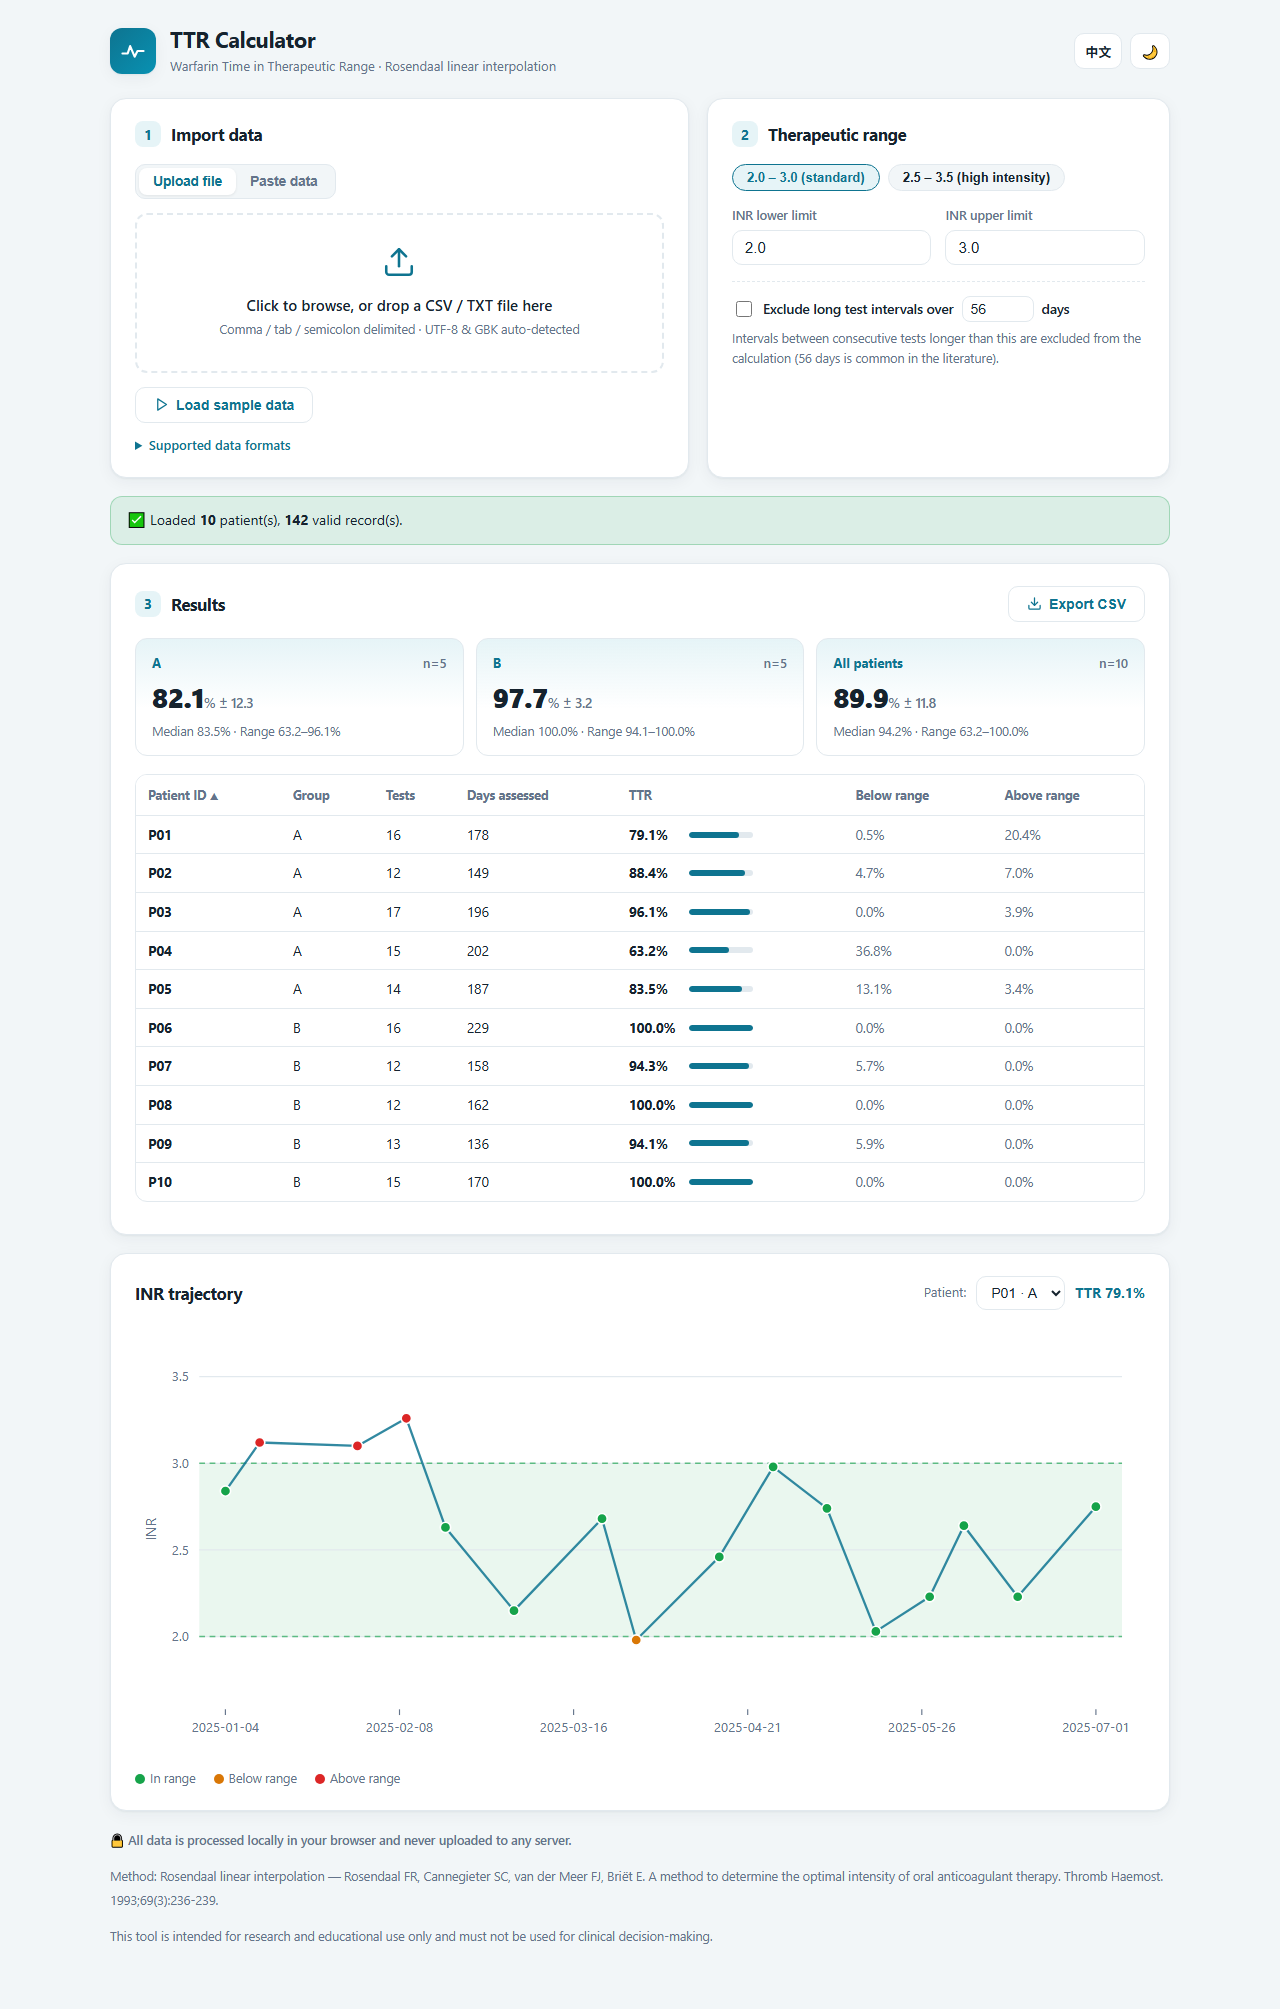
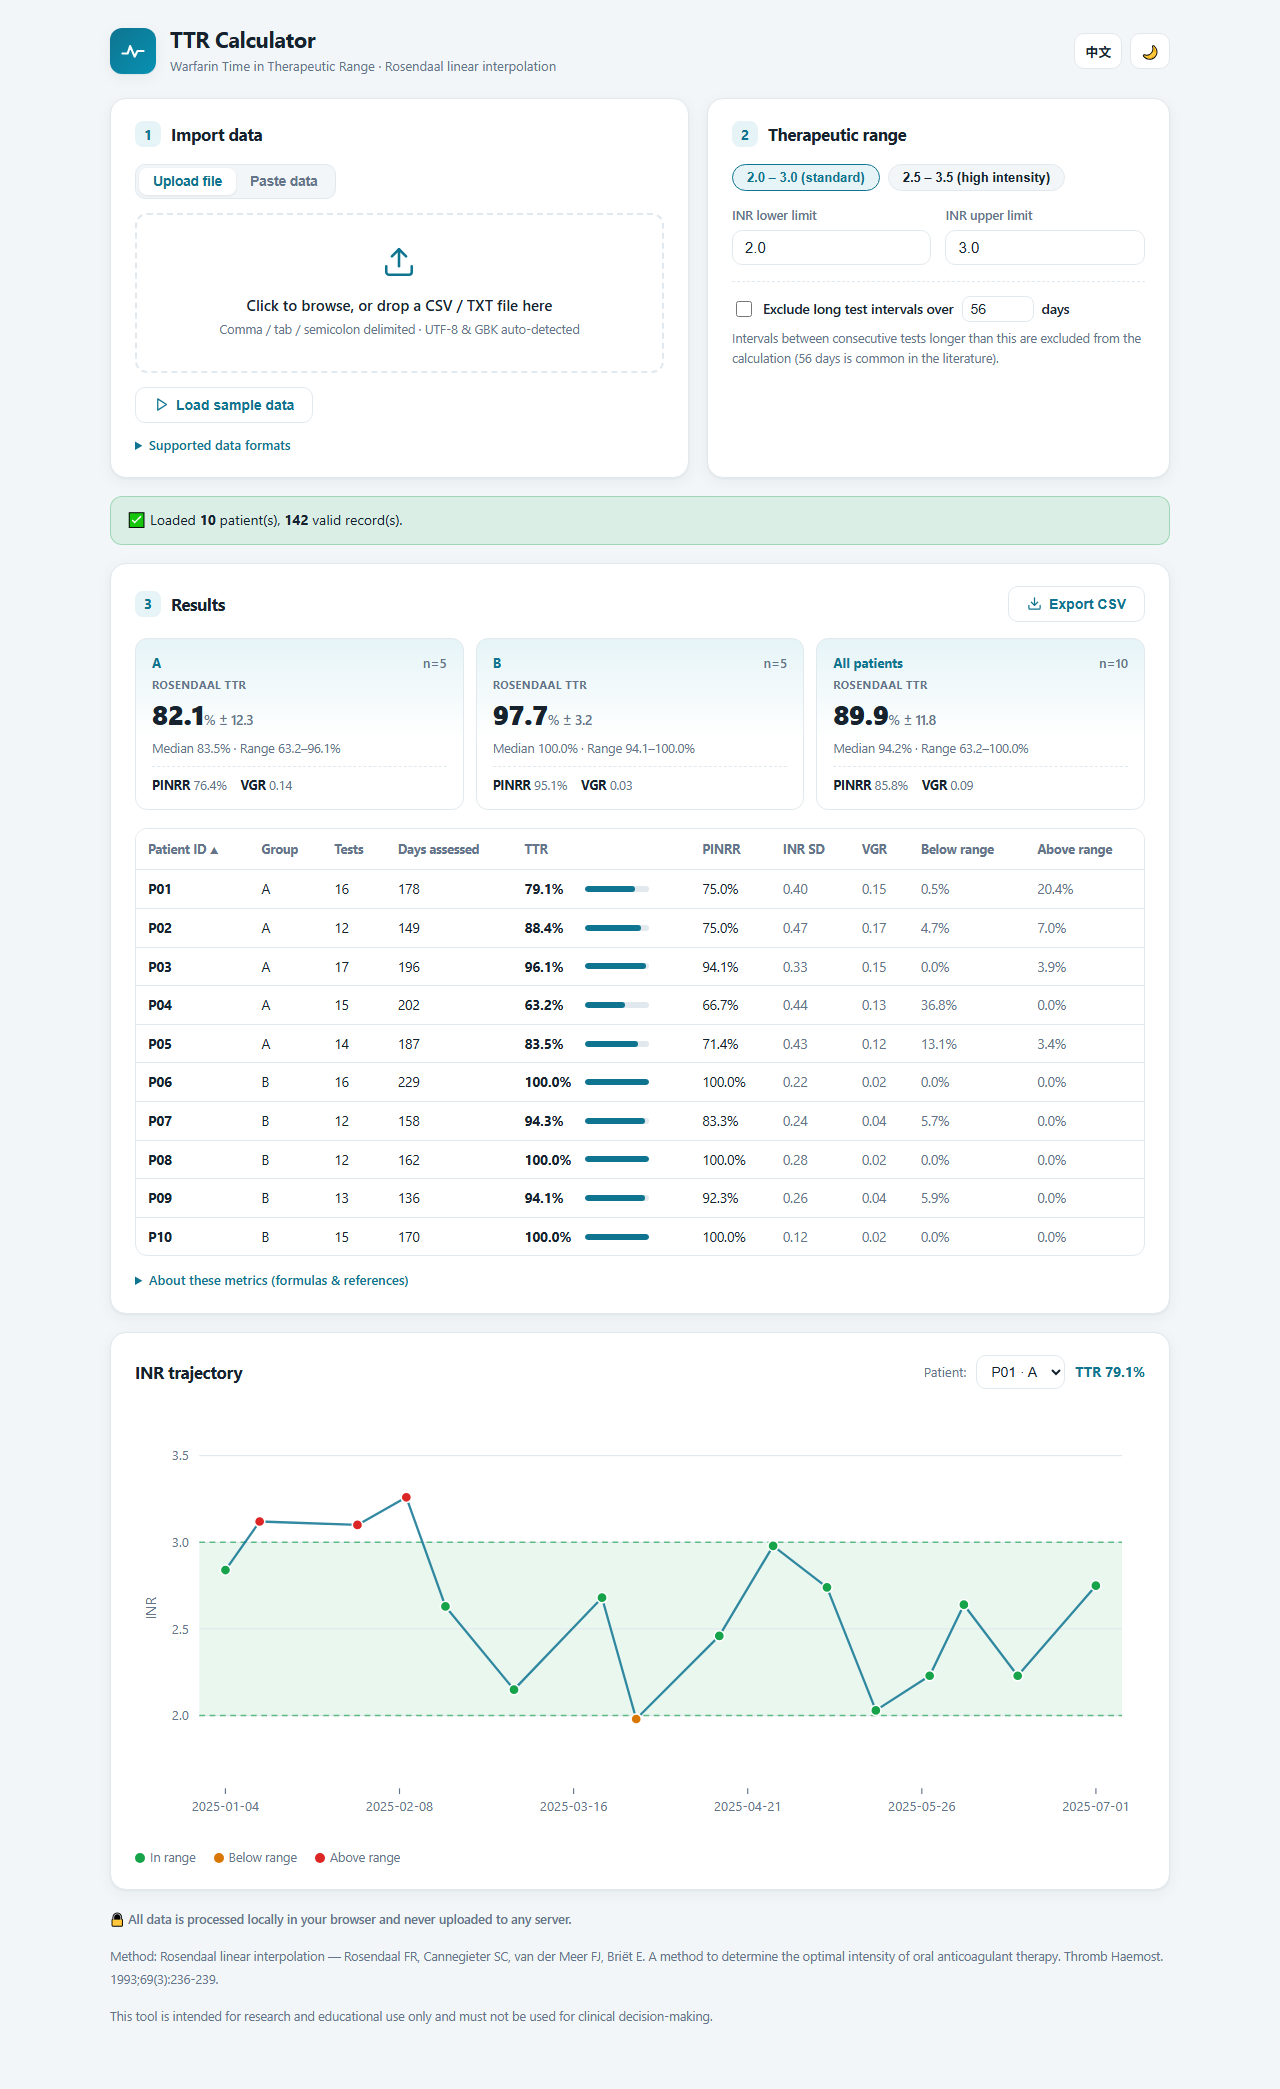
Add multi-algorithm comparison: PINRR, INR SD, Fihn VGR
Alongside Rosendaal TTR the tool now reports, per patient and per
group, the count-based PINRR (proportion of tests in range), INR
standard deviation, and the Fihn variance growth rate — so the same
dataset can be viewed across time-based, count-based, and variability
metrics side by side. Added to the results table, group stat cards,
CSV export, and an in-app metrics/formulas help section (zh/en).
README gains a metrics table and references; preview regenerated.

All new metrics verified against independent recomputation.

diff --git a/index.html b/index.html
@@ -199,9 +199,12 @@
   }
   .stat-card .g-name { font-size: 13px; font-weight: 700; color: var(--primary); display: flex; justify-content: space-between; }
   .stat-card .g-n { color: var(--muted); font-weight: 600; }
-  .stat-card .g-mean { font-size: 27px; font-weight: 800; letter-spacing: -0.02em; margin: 2px 0; }
+  .stat-card .g-method { font-size: 11px; font-weight: 700; color: var(--muted); text-transform: uppercase; letter-spacing: 0.04em; margin-top: 2px; }
+  .stat-card .g-mean { font-size: 27px; font-weight: 800; letter-spacing: -0.02em; margin: 0 0 2px; }
   .stat-card .g-mean small { font-size: 14px; font-weight: 600; color: var(--muted); }
   .stat-card .g-sub { font-size: 12.5px; color: var(--muted); }
+  .stat-card .g-cmp { display: flex; gap: 14px; margin-top: 8px; padding-top: 8px; border-top: 1px dashed var(--border); font-size: 12.5px; color: var(--muted); }
+  .stat-card .g-cmp b { color: var(--text); font-weight: 700; }
 
   /* ---------- table ---------- */
   .table-wrap { overflow: auto; max-height: 430px; border: 1px solid var(--border); border-radius: 12px; }
@@ -224,6 +227,9 @@
   .ttrcell .bar i { display: block; height: 100%; background: var(--primary); border-radius: 3px; }
   .muted { color: var(--muted); }
   .note-line { font-size: 12.5px; color: var(--muted); margin: 10px 2px 0; }
+  .metrics-help { margin-top: 14px; }
+  .metrics-help ul { margin: 6px 0; padding-left: 20px; }
+  .metrics-help li { margin: 3px 0; }
 
   /* ---------- chart ---------- */
   .chart-controls { display: flex; align-items: center; gap: 10px; flex-wrap: wrap; }
@@ -359,6 +365,10 @@
       </table>
     </div>
     <p class="note-line" id="tableNote"></p>
+    <details class="format-help metrics-help">
+      <summary data-i18n="metricsTitle"></summary>
+      <div id="metricsBody"></div>
+    </details>
   </section>
 
   <section class="card hidden" id="chartCard">
@@ -428,7 +438,17 @@ P02,B,2025-01-08 08:15,3.10</pre>`,
     settingsErr: '请输入有效治疗窗：下限 > 0 且小于上限。',
     exportBtn: '导出 CSV',
     thId: '患者 ID', thGroup: '分组', thN: '检测次数', thDays: '评估天数',
-    thTTR: 'TTR', thBelow: '低于窗', thAbove: '高于窗',
+    thTTR: 'TTR', thPINRR: '达标比例', thSD: 'INR 标准差', thVGR: 'VGR', thBelow: '低于窗', thAbove: '高于窗',
+    rosLabel: 'Rosendaal TTR',
+    metricsTitle: '关于各项指标（含公式与文献）',
+    metricsBody: `
+      <ul>
+        <li><b>TTR（Rosendaal 法）</b>：相邻两次 INR 间线性插值，计算落在治疗窗内的<i>时间</i>百分比。Rosendaal 等，1993。</li>
+        <li><b>达标比例 PINRR</b>：落在治疗窗内的 INR <i>次数</i> ÷ 总检测次数 ×100%（传统"点计数"法，不考虑时间）。</li>
+        <li><b>INR 标准差</b>：该患者所有 INR 值的样本标准差，反映离散程度。</li>
+        <li><b>VGR（Fihn 方差增长率）</b>：各相邻区间 (ΔINR)² ÷ 该区间周数，再对区间取平均；<b>数值越大越不稳定</b>。Fihn 等。</li>
+      </ul>
+      <p>同一批数据下 TTR 与 PINRR 常有系统性差异；变异性指标（SD、VGR）可独立于 TTR 预测出血与血栓风险，故并列展示。</p>`,
     invalidPatient: '有效检测不足，无法计算',
     ungrouped: '未分组',
     overall: '全部患者',
@@ -491,7 +511,17 @@ P02,B,2025-01-08 08:15,3.10</pre>`,
     settingsErr: 'Enter a valid range: lower limit > 0 and below the upper limit.',
     exportBtn: 'Export CSV',
     thId: 'Patient ID', thGroup: 'Group', thN: 'Tests', thDays: 'Days assessed',
-    thTTR: 'TTR', thBelow: 'Below range', thAbove: 'Above range',
+    thTTR: 'TTR', thPINRR: 'PINRR', thSD: 'INR SD', thVGR: 'VGR', thBelow: 'Below range', thAbove: 'Above range',
+    rosLabel: 'Rosendaal TTR',
+    metricsTitle: 'About these metrics (formulas & references)',
+    metricsBody: `
+      <ul>
+        <li><b>TTR (Rosendaal)</b>: linear interpolation between consecutive INRs; percentage of <i>time</i> spent in range. Rosendaal et al., 1993.</li>
+        <li><b>PINRR</b>: proportion of INR <i>tests</i> in range ÷ total tests ×100% (traditional count-based method; ignores timing).</li>
+        <li><b>INR SD</b>: sample standard deviation of the patient's INR values — a measure of spread.</li>
+        <li><b>VGR (Fihn variance growth rate)</b>: mean over intervals of (ΔINR)² ÷ weeks in that interval; <b>higher = less stable</b>. Fihn et al.</li>
+      </ul>
+      <p>For the same data, TTR and PINRR often differ systematically; variability metrics (SD, VGR) predict bleeding and thrombosis risk independently of TTR, so they are shown side by side.</p>`,
     invalidPatient: 'Not enough valid tests',
     ungrouped: 'Ungrouped',
     overall: 'All patients',
@@ -631,23 +661,41 @@ function segmentSplit(v0, v1, lo, hi) {
   const below = fracBetween(v0, v1, -Infinity, lo);
   return { below, inR, above: Math.max(0, 1 - inR - below) };
 }
+const WEEK_MS = 7 * 86400000;
 function computePatient(points, lo, hi, maxGapMs) {
+  const n = points.length;
+  // ---- count-based metrics (independent of timing) ----
+  // PINRR = proportion of INR tests within range; SD = spread of INR values
+  let inCount = 0, sum = 0, sumSq = 0;
+  for (const p of points) {
+    if (p.v >= lo && p.v <= hi) inCount++;
+    sum += p.v; sumSq += p.v * p.v;
+  }
+  const pinrr = n ? inCount / n * 100 : null;
+  const sdINR = n > 1 ? Math.sqrt(Math.max(0, (sumSq - sum * sum / n) / (n - 1))) : null;
+
+  // ---- interval-based metrics ----
+  // Rosendaal TTR (linear interpolation) + Fihn variance growth rate
   let inMs = 0, belowMs = 0, aboveMs = 0, totalMs = 0, excluded = 0;
-  for (let i = 0; i < points.length - 1; i++) {
+  let vgrSum = 0, vgrK = 0;
+  for (let i = 0; i < n - 1; i++) {
     const dt = points[i + 1].t - points[i].t;
     if (dt <= 0) continue;
     if (maxGapMs && dt > maxGapMs) { excluded++; continue; }
     const s = segmentSplit(points[i].v, points[i + 1].v, lo, hi);
     inMs += s.inR * dt; belowMs += s.below * dt; aboveMs += s.above * dt; totalMs += dt;
+    const dv = points[i + 1].v - points[i].v;
+    vgrSum += dv * dv / (dt / WEEK_MS); vgrK++;
   }
-  if (totalMs === 0) return { valid: false, excluded };
+  const vgr = vgrK ? vgrSum / vgrK : null;
+  if (totalMs === 0) return { valid: false, excluded, pinrr, sdINR, vgr };
   return {
     valid: true,
     ttr: inMs / totalMs * 100,
     below: belowMs / totalMs * 100,
     above: aboveMs / totalMs * 100,
     days: totalMs / 86400000,
-    excluded
+    pinrr, sdINR, vgr, excluded
   };
 }
 function computeAll() {
@@ -671,30 +719,35 @@ function computeAll() {
   perPatient.filter(r => r.valid).forEach(r => {
     const g = r.group || '';
     if (!byGroup.has(g)) byGroup.set(g, []);
-    byGroup.get(g).push(r.ttr);
+    byGroup.get(g).push(r);
   });
   groupStats = [...byGroup.entries()]
     .sort((a, b) => a[0].localeCompare(b[0], undefined, { numeric: true }))
-    .map(([g, ttrs]) => makeStats(g, ttrs));
+    .map(([g, rows]) => makeStats(g, rows));
   if (groupStats.length > 1) {
     makeOverall();
   }
   renderResults();
 }
-function makeStats(g, ttrs) {
+const avg = arr => arr.reduce((s, x) => s + x, 0) / arr.length;
+function makeStats(g, rows) {
+  const ttrs = rows.map(r => r.ttr);
   const n = ttrs.length;
-  const mean = ttrs.reduce((s, x) => s + x, 0) / n;
+  const mean = avg(ttrs);
   const sd = n > 1 ? Math.sqrt(ttrs.reduce((s, x) => s + (x - mean) ** 2, 0) / (n - 1)) : null;
   const sorted = [...ttrs].sort((a, b) => a - b);
   const median = n % 2 ? sorted[(n - 1) / 2] : (sorted[n / 2 - 1] + sorted[n / 2]) / 2;
-  return { group: g, n, mean, sd, median, min: sorted[0], max: sorted[n - 1] };
+  const pinrrs = rows.map(r => r.pinrr).filter(x => x != null);
+  const vgrs = rows.map(r => r.vgr).filter(x => x != null);
+  return {
+    group: g, n, mean, sd, median, min: sorted[0], max: sorted[n - 1],
+    pinrrMean: pinrrs.length ? avg(pinrrs) : null,
+    vgrMean: vgrs.length ? avg(vgrs) : null
+  };
 }
 function makeOverall() {
-  const all = perPatient.filter(r => r.valid).map(r => r.ttr);
-  if (all.length) {
-    const s = makeStats('__all__', all);
-    groupStats.push(s);
-  }
+  const rows = perPatient.filter(r => r.valid);
+  if (rows.length) groupStats.push(makeStats('__all__', rows));
 }
 
 /* ================= rendering ================= */
@@ -748,8 +801,13 @@ function renderStatCards() {
   $('statGrid').innerHTML = groupStats.map(s => `
     <div class="stat-card">
       <div class="g-name"><span>${escapeHtml(groupLabel(s.group))}</span><span class="g-n">n=${s.n}${t('nUnit')}</span></div>
+      <div class="g-method">${t('rosLabel')}</div>
       <div class="g-mean">${s.mean.toFixed(1)}<small>%</small>${s.sd !== null ? `<small> ± ${s.sd.toFixed(1)}</small>` : ''}</div>
       <div class="g-sub">${t('medianLabel')} ${s.median.toFixed(1)}% · ${t('rangeLabel')} ${s.min.toFixed(1)}–${s.max.toFixed(1)}%</div>
+      <div class="g-cmp">
+        <span><b>PINRR</b> ${s.pinrrMean != null ? s.pinrrMean.toFixed(1) + '%' : '–'}</span>
+        <span><b>VGR</b> ${s.vgrMean != null ? s.vgrMean.toFixed(2) : '–'}</span>
+      </div>
     </div>`).join('');
 }
 const COLS = [
@@ -758,6 +816,9 @@ const COLS = [
   { key: 'n', label: 'thN' },
   { key: 'days', label: 'thDays' },
   { key: 'ttr', label: 'thTTR' },
+  { key: 'pinrr', label: 'thPINRR' },
+  { key: 'sdINR', label: 'thSD' },
+  { key: 'vgr', label: 'thVGR' },
   { key: 'below', label: 'thBelow' },
   { key: 'above', label: 'thAbove' },
 ];
@@ -777,7 +838,7 @@ function renderTable() {
   $('tableBody').innerHTML = rows.map(r => {
     const sel = r.id === selectedId ? ' class="selected"' : '';
     if (!r.valid) {
-      return `<tr data-id="${escapeHtml(r.id)}"${sel}><td>${escapeHtml(r.id)}</td><td>${escapeHtml(groupLabel(r.group))}</td><td>${r.n}</td><td colspan="4" class="muted">${t('invalidPatient')}</td></tr>`;
+      return `<tr data-id="${escapeHtml(r.id)}"${sel}><td>${escapeHtml(r.id)}</td><td>${escapeHtml(groupLabel(r.group))}</td><td>${r.n}</td><td colspan="7" class="muted">${t('invalidPatient')}</td></tr>`;
     }
     return `<tr data-id="${escapeHtml(r.id)}"${sel}>
       <td><b>${escapeHtml(r.id)}</b></td>
@@ -785,6 +846,9 @@ function renderTable() {
       <td>${r.n}</td>
       <td>${Math.round(r.days)}</td>
       <td><div class="ttrcell"><span class="num">${r.ttr.toFixed(1)}%</span><span class="bar"><i style="width:${Math.min(100, r.ttr)}%"></i></span></div></td>
+      <td>${r.pinrr != null ? r.pinrr.toFixed(1) + '%' : '–'}</td>
+      <td class="muted">${r.sdINR != null ? r.sdINR.toFixed(2) : '–'}</td>
+      <td class="muted">${r.vgr != null ? r.vgr.toFixed(2) : '–'}</td>
       <td class="muted">${r.below.toFixed(1)}%</td>
       <td class="muted">${r.above.toFixed(1)}%</td>
     </tr>`;
@@ -861,20 +925,24 @@ function renderChart() {
 /* ================= export ================= */
 function exportCSV() {
   if (!perPatient.length) return;
-  const L = ['PatientID,Group,Tests,FirstDate,LastDate,DaysAssessed,TTR_pct,BelowRange_pct,AboveRange_pct,ExcludedIntervals'];
+  const num = (x, d) => x != null ? x.toFixed(d) : 'NA';
+  const L = ['PatientID,Group,Tests,FirstDate,LastDate,DaysAssessed,TTR_Rosendaal_pct,PINRR_pct,SD_INR,VGR_Fihn,BelowRange_pct,AboveRange_pct,ExcludedIntervals'];
   perPatient.forEach(r => {
     if (r.valid) {
       L.push([r.id, groupLabel(r.group), r.n, fmtDate(r.first), fmtDate(r.last),
-        r.days.toFixed(1), r.ttr.toFixed(2), r.below.toFixed(2), r.above.toFixed(2), r.excluded].join(','));
+        r.days.toFixed(1), r.ttr.toFixed(2), num(r.pinrr, 2), num(r.sdINR, 3), num(r.vgr, 4),
+        r.below.toFixed(2), r.above.toFixed(2), r.excluded].join(','));
     } else {
-      L.push([r.id, groupLabel(r.group), r.n, '', '', '', 'NA', 'NA', 'NA', r.excluded || 0].join(','));
+      L.push([r.id, groupLabel(r.group), r.n, '', '', '', 'NA', num(r.pinrr, 2), num(r.sdINR, 3), num(r.vgr, 4),
+        'NA', 'NA', r.excluded || 0].join(','));
     }
   });
   L.push('');
-  L.push('Group,N,Mean_TTR_pct,SD,Median,Min,Max');
+  L.push('Group,N,Mean_TTR_Rosendaal_pct,SD,Median,Min,Max,Mean_PINRR_pct,Mean_VGR_Fihn');
   groupStats.forEach(s => {
     L.push([groupLabel(s.group), s.n, s.mean.toFixed(2), s.sd !== null ? s.sd.toFixed(2) : 'NA',
-      s.median.toFixed(2), s.min.toFixed(2), s.max.toFixed(2)].join(','));
+      s.median.toFixed(2), s.min.toFixed(2), s.max.toFixed(2),
+      num(s.pinrrMean, 2), num(s.vgrMean, 4)].join(','));
   });
   const blob = new Blob(['' + L.join('\r\n')], { type: 'text/csv;charset=utf-8' });
   const a = document.createElement('a');
@@ -945,6 +1013,7 @@ function applyLang() {
   document.querySelectorAll('[data-i18n]').forEach(el => { el.textContent = t(el.dataset.i18n); });
   document.querySelectorAll('[data-i18n-ph]').forEach(el => { el.placeholder = t(el.dataset.i18nPh); });
   $('formatBody').innerHTML = t('formatBody');
+  $('metricsBody').innerHTML = t('metricsBody');
   $('langBtn').textContent = lang === 'zh' ? 'EN' : '中文';
   renderBanner();
   if (perPatient.length) renderResults();

diff --git a/README.md b/README.md
@@ -11,7 +11,7 @@ A browser-based Warfarin **Time in Therapeutic Range (TTR)** calculator using th
 
 - 📄 **Flexible import** — drag & drop a CSV / TXT file, or paste rows straight from Excel. UTF‑8 and GBK encodings, plus comma / tab / semicolon delimiters, are auto‑detected.
 - 👥 **Batch by patient and group** — computes many patients and groups at once; a single patient with just two columns (date, INR) also works.
-- 📊 **Detailed metrics** — per‑patient TTR, time below range, time above range, and days assessed; per‑group summaries (mean ± SD, median, range).
+- 📊 **Multiple algorithms side by side** — for every patient and group it reports the **Rosendaal TTR** (time-based), **PINRR** (proportion of tests in range, count-based), **INR SD**, and the **Fihn variance growth rate (VGR)** of INR stability — so you can see directly how the methods diverge on the same data. Plus time below / above range, days assessed, and per-group summaries (mean ± SD, median, range).
 - 📈 **Interactive INR trajectory chart** — the therapeutic window is shaded, and each measurement is colored by whether it falls in / below / above range.
 - ⚙️ **Configurable range** — presets (2.0–3.0 / 2.5–3.5) or custom limits; optionally exclude over‑long testing intervals (default threshold 56 days).
 - 💾 **One‑click CSV export** — results open directly in Excel.
@@ -51,11 +51,22 @@ The demo link supports a few query parameters for sharing a preconfigured view:
 
 Example: `?demo=1&lang=en&theme=light`
 
-## Method
+## Metrics & methods
 
-Rosendaal FR, Cannegieter SC, van der Meer FJ, Briët E. **A method to determine the optimal intensity of oral anticoagulant therapy.** *Thromb Haemost.* 1993;69(3):236‑239.
+| Metric | Definition | Type |
+| --- | --- | --- |
+| **TTR (Rosendaal)** | Linear interpolation between consecutive INRs; percentage of **time** in range | Time-based |
+| **PINRR** | In-range INR **tests** ÷ total tests × 100% (the "traditional" method) | Count-based |
+| **INR SD** | Sample standard deviation of the patient's INR values | Variability |
+| **VGR (Fihn)** | Mean over intervals of (ΔINR)² ÷ weeks between tests; higher = less stable | Variability |
 
-Time between consecutive INR measurements is allocated by linear interpolation. Intervals longer than the optional gap threshold are excluded from both the numerator and the denominator.
+The Rosendaal TTR interpolates INR linearly between measurements and allocates time in range; intervals longer than the optional gap threshold are excluded from both the numerator and the denominator. TTR and PINRR frequently differ on the same dataset, and INR-variability metrics (SD, VGR) have been shown to predict bleeding and thromboembolism independently of TTR.
+
+**References**
+
+- Rosendaal FR, Cannegieter SC, van der Meer FJ, Briët E. A method to determine the optimal intensity of oral anticoagulant therapy. *Thromb Haemost.* 1993;69(3):236‑239.
+- Fihn SD, McDonell M, Martin D, et al. Risk factors for complications of chronic anticoagulation. *Ann Intern Med.* 1993;118(7):511‑520. (introduces the variance growth rate)
+- Lind M, et al. The clinical evaluation of INR variability and control in conventional oral anticoagulant administration by use of the variance growth rate. *J Thromb Haemost.* 2013;11(8):1540‑1546. (VGR methods A/B1/B2)
 
 ## Disclaimer
 